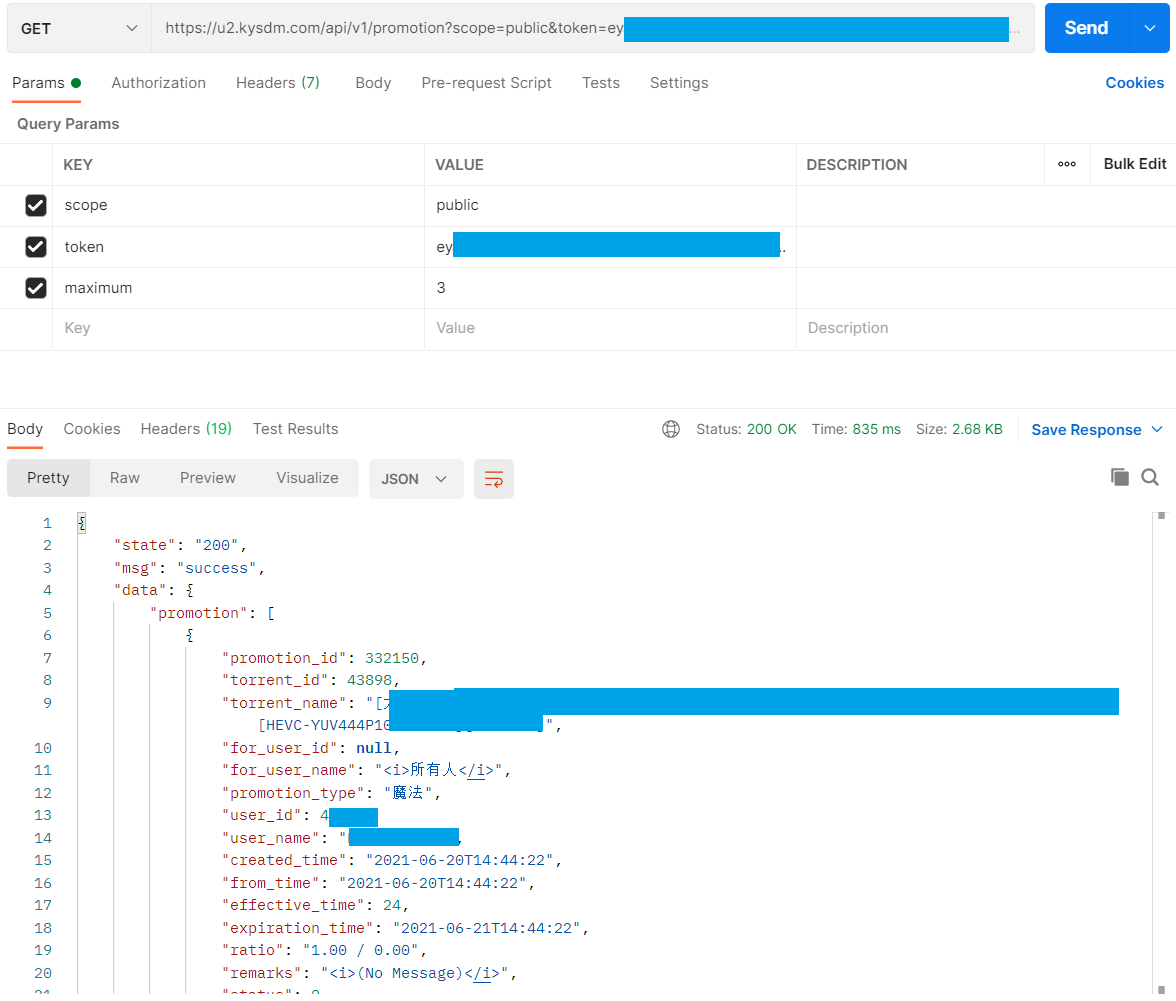
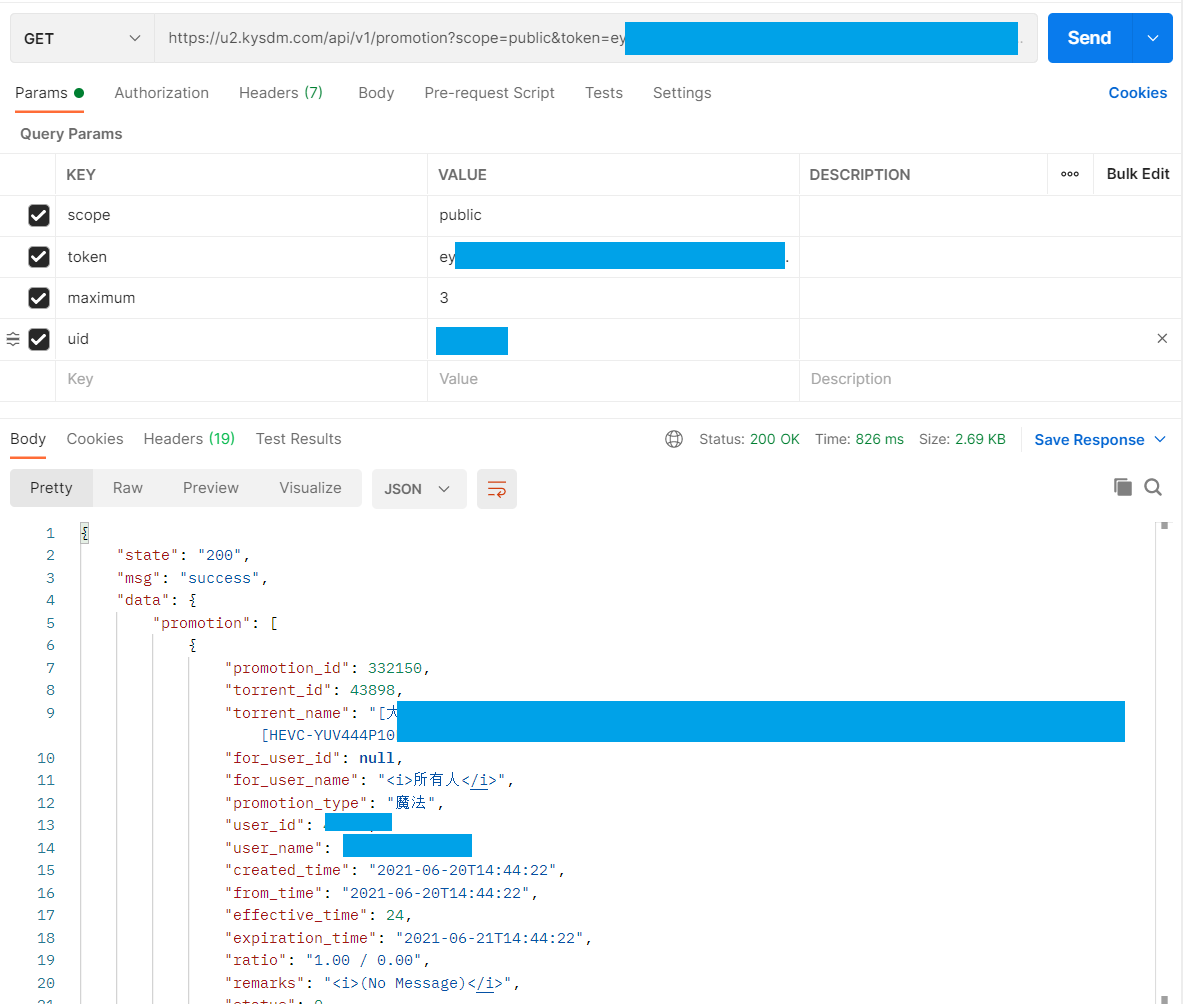
diff

diff --git a/README.md b/README.md
@@ -37,6 +37,7 @@
 
 |  参数   | 数据类型  | 说明  |
 |  ----  | :--:  | ----  |
+| uid  | int | u2账户id |
 | token  | str | 鉴权中返回的值 |
 | scope [optional] | str | 魔法类型 `global` `public` `private` `all`<br>默认值 `all`|
 | maximum [optional]| int | 返回数据条数<br>默认值 `10`<br>最大 `30` |
@@ -50,6 +51,7 @@
 
 |  参数   | 数据类型  | 说明  |
 |  ----  | :--:  | ----  |
+| uid  | int | u2账户id |
 | token  | str | 鉴权中返回的值 |
 | maximum [optional]| int | 返回数据条数<br>默认值 `10`<br>最大 `30` |
 
@@ -62,7 +64,22 @@
 
 |  参数   | 数据类型  | 说明  |
 |  :--:  | :--:  | ----  |
+| uid  | int | u2账户id |
 | token  | str | 鉴权中返回的值 |
 | maximum [optional]| int | 返回数据条数<br>默认值 `10`<br>最大 `50` |
 
 ![](https://raw.githubusercontent.com/kysdm/u2_api/main/img/5.png)
+
+****
+
+## 历史修改
+`GET` `https://u2.kysdm.com/api/v1/diff`
+
+|  参数   | 数据类型  | 说明  |
+|  :--:  | :--:  | ----  |
+| uid  | int | u2账户id |
+| torrent  | int | 种子id |
+| token  | str | 鉴权中返回的值 |
+| maximum [optional]| int | 返回数据条数<br>默认值 `3`<br>最大 `15` |
+
+![](https://raw.githubusercontent.com/kysdm/u2_api/main/img/6.png)
